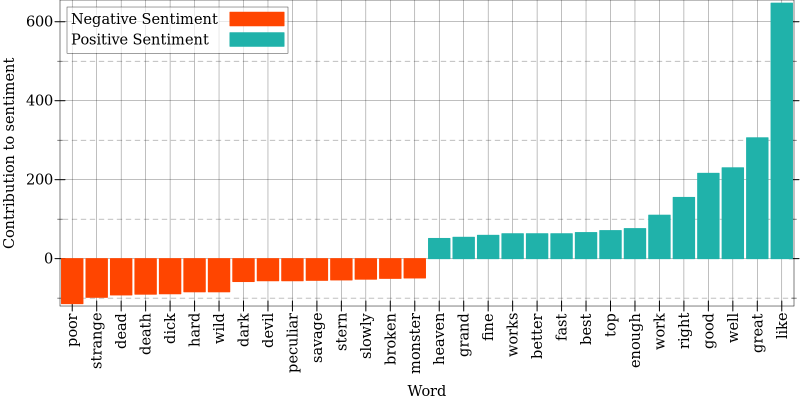
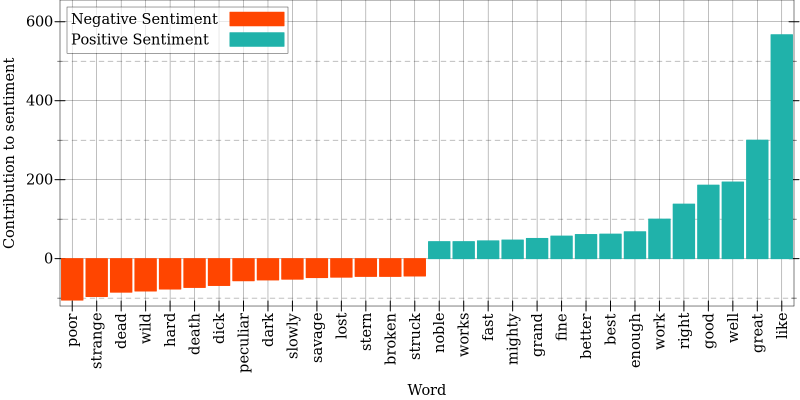
Updated sentiment examples

diff --git a/README.md b/README.md
@@ -538,7 +538,7 @@ Individual functions, documented below, offer fine-grained control over analysis
 ;;; punctuation, and then extra spaces
 (define moby-text (string-normalize-spaces
 		   (remove-punctuation
-		    (string-downcase (port->string in)))))
+		    (string-downcase (port->string in)) #:websafe? #t)))
 			 
 ;;; Close the input port
 (close-input-port in)
@@ -548,39 +548,38 @@ Individual functions, documented below, offer fine-grained control over analysis
 (define words (document->tokens moby-text #:sort? #t))
 
 ;;; Using the nrc lexicon, we can label each (non stop-word) with an
-;;; emotional label. The call to filter is used to remove tokens with no 
-;;; sentiment score (returned as #f)
-(define sentiment (filter (λ (x) (second x)) (list->sentiment words #:lexicon 'nrc)))
+;;; emotional label. 
+(define sentiment (list->sentiment words #:lexicon 'nrc))
 
 ;;; We can take a sneak peak at the data...
 (take sentiment 5)
-;;; --> '(("ship" "anticipation" 518)
-;;;       ("sea" "positive" 455)
-;;;       ("long" "anticipation" 334)
-;;;       ("time" "anticipation" 334)
-;;;       ("captain" "positive" 329))
+;;; --> '(("word" "sentiment" "freq")
+;;;       ("ship" "anticipation" 367)
+;;;       ("sea" "positive" 364)
+;;;       ("time" "anticipation" 318)
+;;;       ("long" "anticipation" 311))
 
 ;;; sentiment, created above, consists of a list of triplets of the pattern
 ;;; (token sentiment freq) for each token in the document. Many words will have 
 ;;; the same sentiment label, so we aggregrate (by summing) across such tokens.
-(aggregate sum (map second sentiment) (map third sentiment))
-;;; --> '(("anticipation" 1997)
-;;;       ("positive" 5442)
-;;;       ("trust" 5844)
-;;;       ("negative" 3955)
-;;;       ("sadness" 3064)
-;;;       ("surprise" 1449)
-;;;       ("fear" 466)
-;;;       ("disgust" 96)
-;;;       ("anger" 60)
-;;;       ("joy" 26))
+(aggregate sum ($ sentiment 'sentiment) ($ sentiment 'freq))
+;;; --> '(("anticipation" 4739)
+;;;       ("positive" 9206)
+;;;       ("joy" 3196)
+;;;       ("trust" 5095)
+;;;       ("surprise" 2157)
+;;;       ("negative" 7090)
+;;;       ("fear" 4136)
+;;;       ("sadness" 3317)
+;;;       ("anger" 2765)
+;;;       ("disgust" 1958))
 
 ;;; Better yet, we can visualize this result as a barplot (discrete-histogram)
 (parameterize ((plot-width 800))
   (plot (list
 	 (tick-grid)
 	 (discrete-histogram
-	  (aggregate sum (map second sentiment) (map third sentiment))))
+	  (aggregate sum ($ sentiment 'sentiment) ($ sentiment 'freq))))
 	#:x-label "Affective Label"
 	#:y-label "Frequency"))
 ```
@@ -590,9 +589,9 @@ Individual functions, documented below, offer fine-grained control over analysis
 ```racket
 ;;; Or, use the bing lexicon to determine the ratio of
 ;;; positive-to-negative words 
-(define sentiment (filter (λ (x) (second x)) (list->sentiment words #:lexicon 'bing)))
+(define sentiment (list->sentiment words #:lexicon 'bing))
 (plot (discrete-histogram
-       (aggregate sum (map second sentiment) (map third sentiment))
+       (aggregate sum ($ sentiment 'sentiment) ($ sentiment 'freq))
        #:y-min 0
        #:y-max 8000)
       #:x-label "Sentiment Polarity"
@@ -602,13 +601,27 @@ Individual functions, documented below, offer fine-grained control over analysis
 ![Sentiment Polarity](https://github.com/n3mo/data-science/raw/master/img/sentiment-positivity.png)
 
 ```racket
+;;; It seems that the text is slightly more negative than positive. We
+;;; test this using a chi-square goodness of fit test
+(let ([counts (aggregate sum ($ sentiment 'sentiment) ($ sentiment 'freq))])
+  (chi-square-goodness counts '(.5 .5)))
+;;; --> '#hash(('result . "significant")
+;;;            ('chisqr . 49.40294802172227)
+;;;            ('df . 1)
+;;;            ('criterion . 3.8414588206941254)
+;;;            ('alpha . 0.05))
+;;;
+;;; It does seem to a significant difference
+```
+
+```racket
 ;;; We can also look at which words are contributing the most to our
 ;;; positive and negative sentiment scores. We'll look at the top 15
 ;;; influential (i.e., most frequent) positive and negative words
 (define negative-tokens
-  (take (subset sentiment 1 (λ (x) (string=? x "negative"))) 15))
+  (take (cdr (subset sentiment 'sentiment (λ (x) (string=? x "negative")))) 15))
 (define positive-tokens
-  (take (subset sentiment 1 (λ (x) (string=? x "positive"))) 15))
+  (take (cdr (subset sentiment 'sentiment (λ (x) (string=? x "positive")))) 15))
 
 ;;; Some clever reshaping for plotting purposes
 (define n (map (λ (x) (list (first x) (- 0 (third x))))
@@ -643,9 +656,9 @@ Individual functions, documented below, offer fine-grained control over analysis
 ```racket
 ;;; Or, use the AFINN lexicon to determine the document's
 ;;; affective polarity
-(define sentiment (filter (λ (x) (second x)) (list->sentiment words #:lexicon 'AFINN)))
-(sum (map (λ (x) (* (second x) (third x))) sentiment))
-;;; --> 1314
+(define sentiment (list->sentiment words #:lexicon 'AFINN))
+(sum (map (λ (x) (* (second x) (third x))) (cdr sentiment)))
+;;; --> 1220
 ```
 
 ### document->tokens
